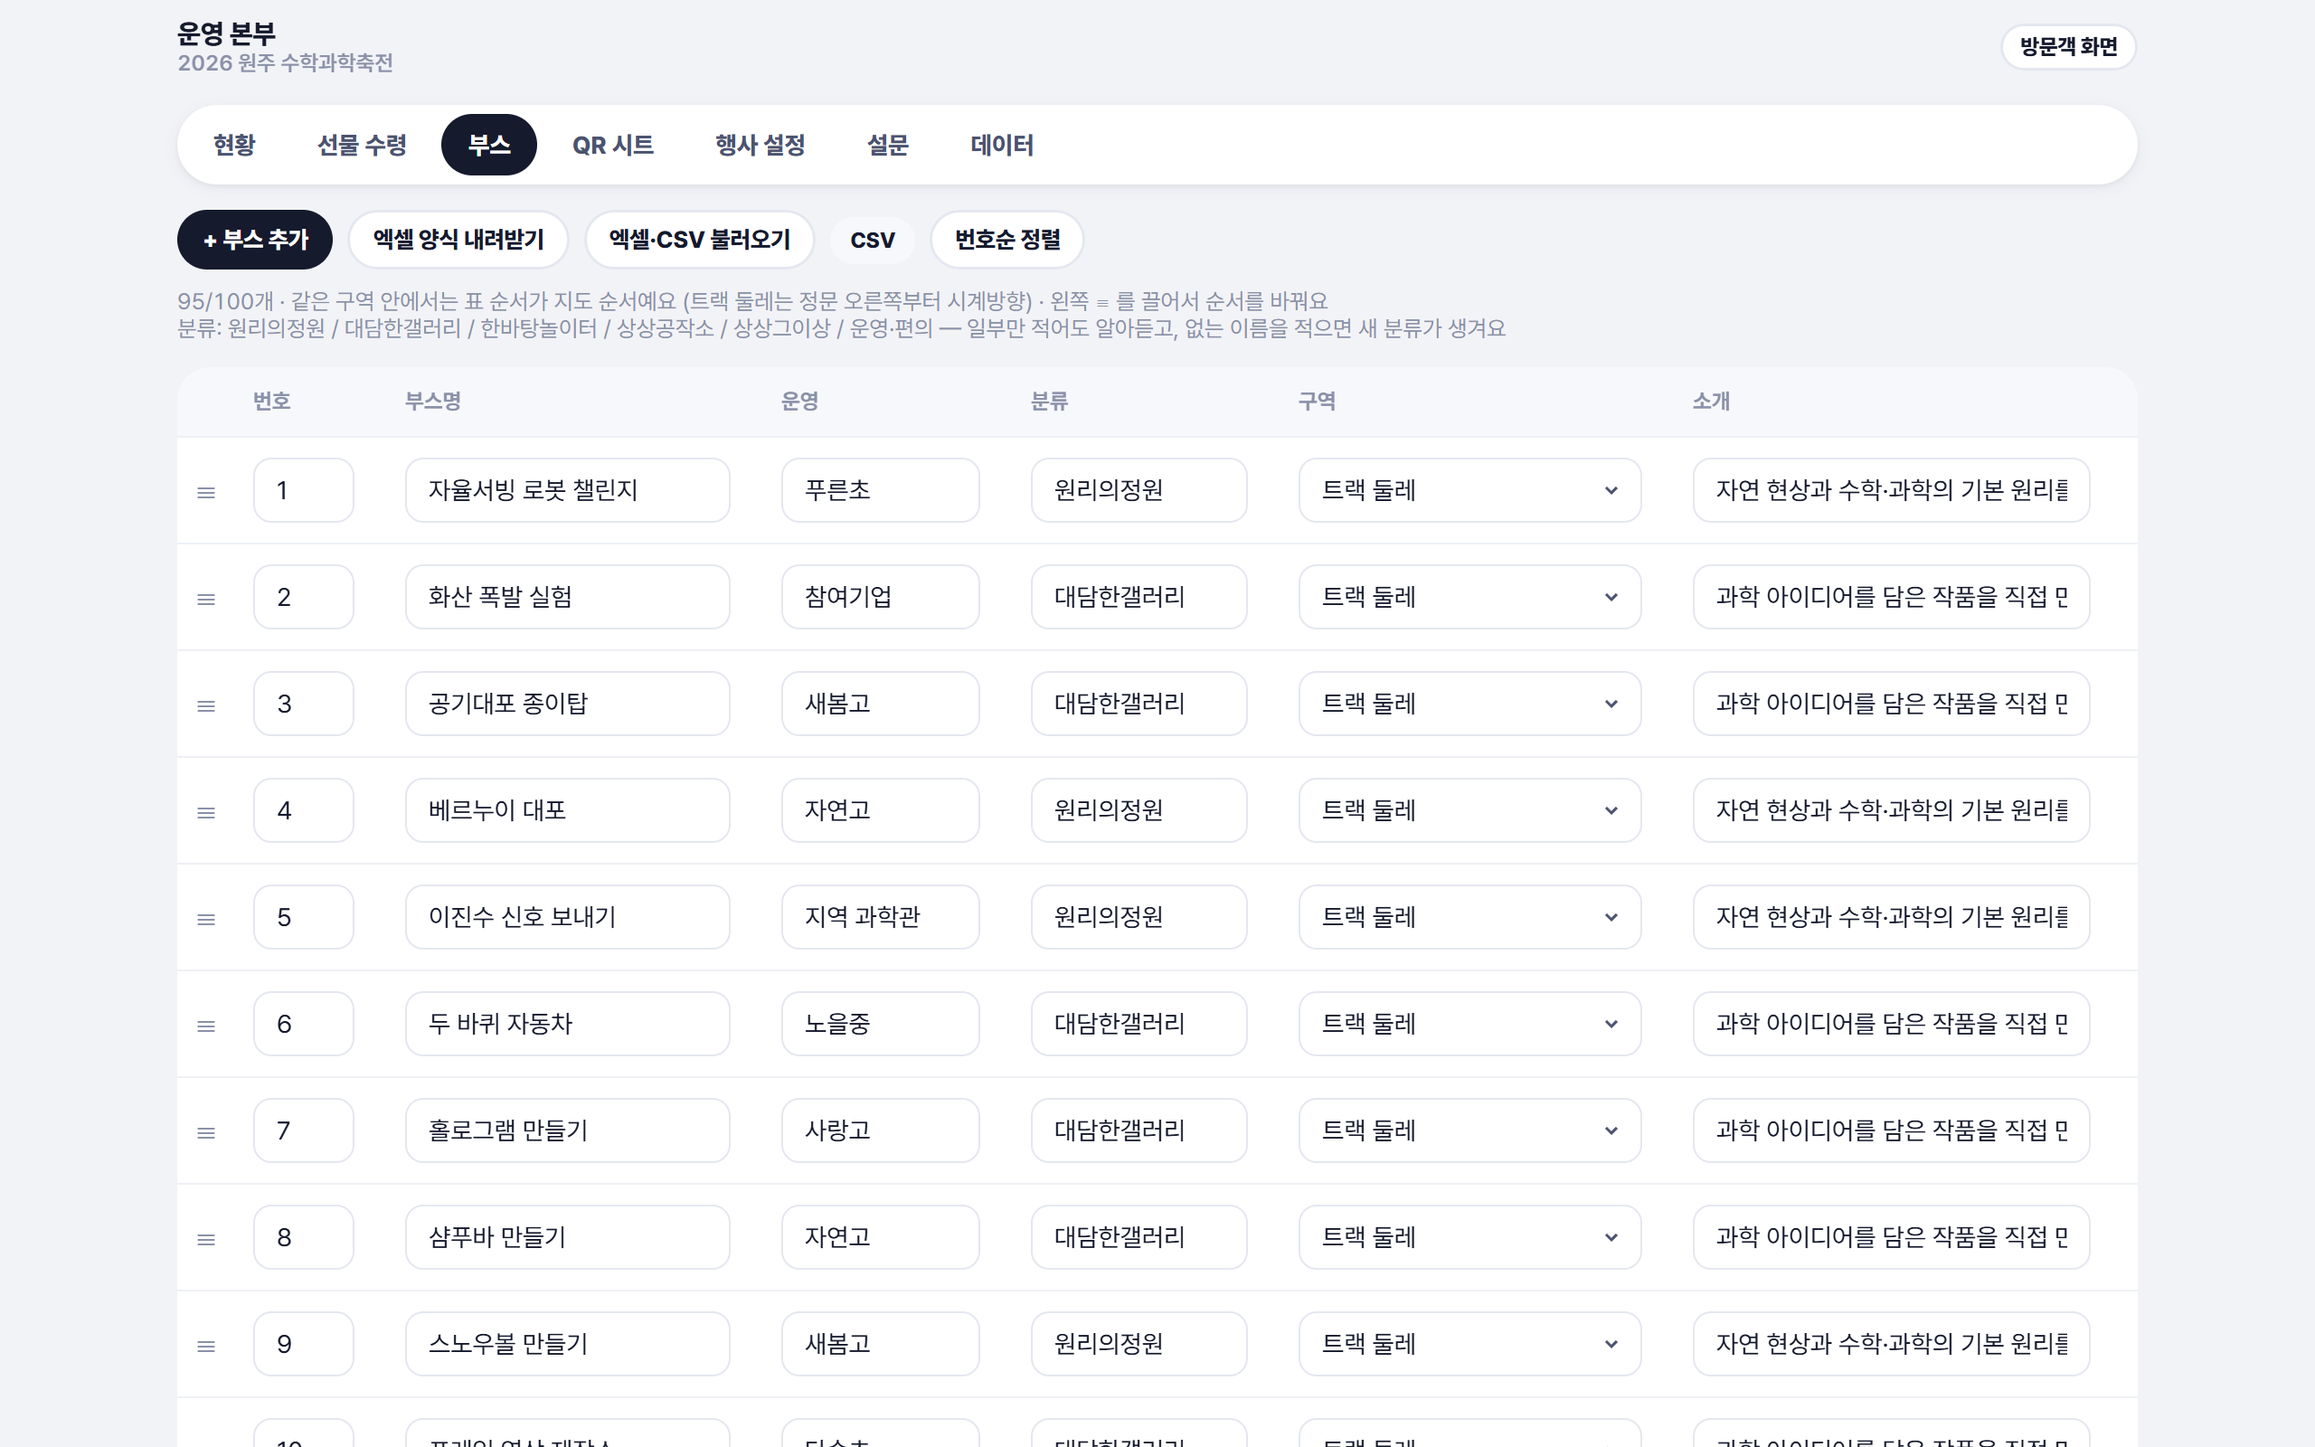
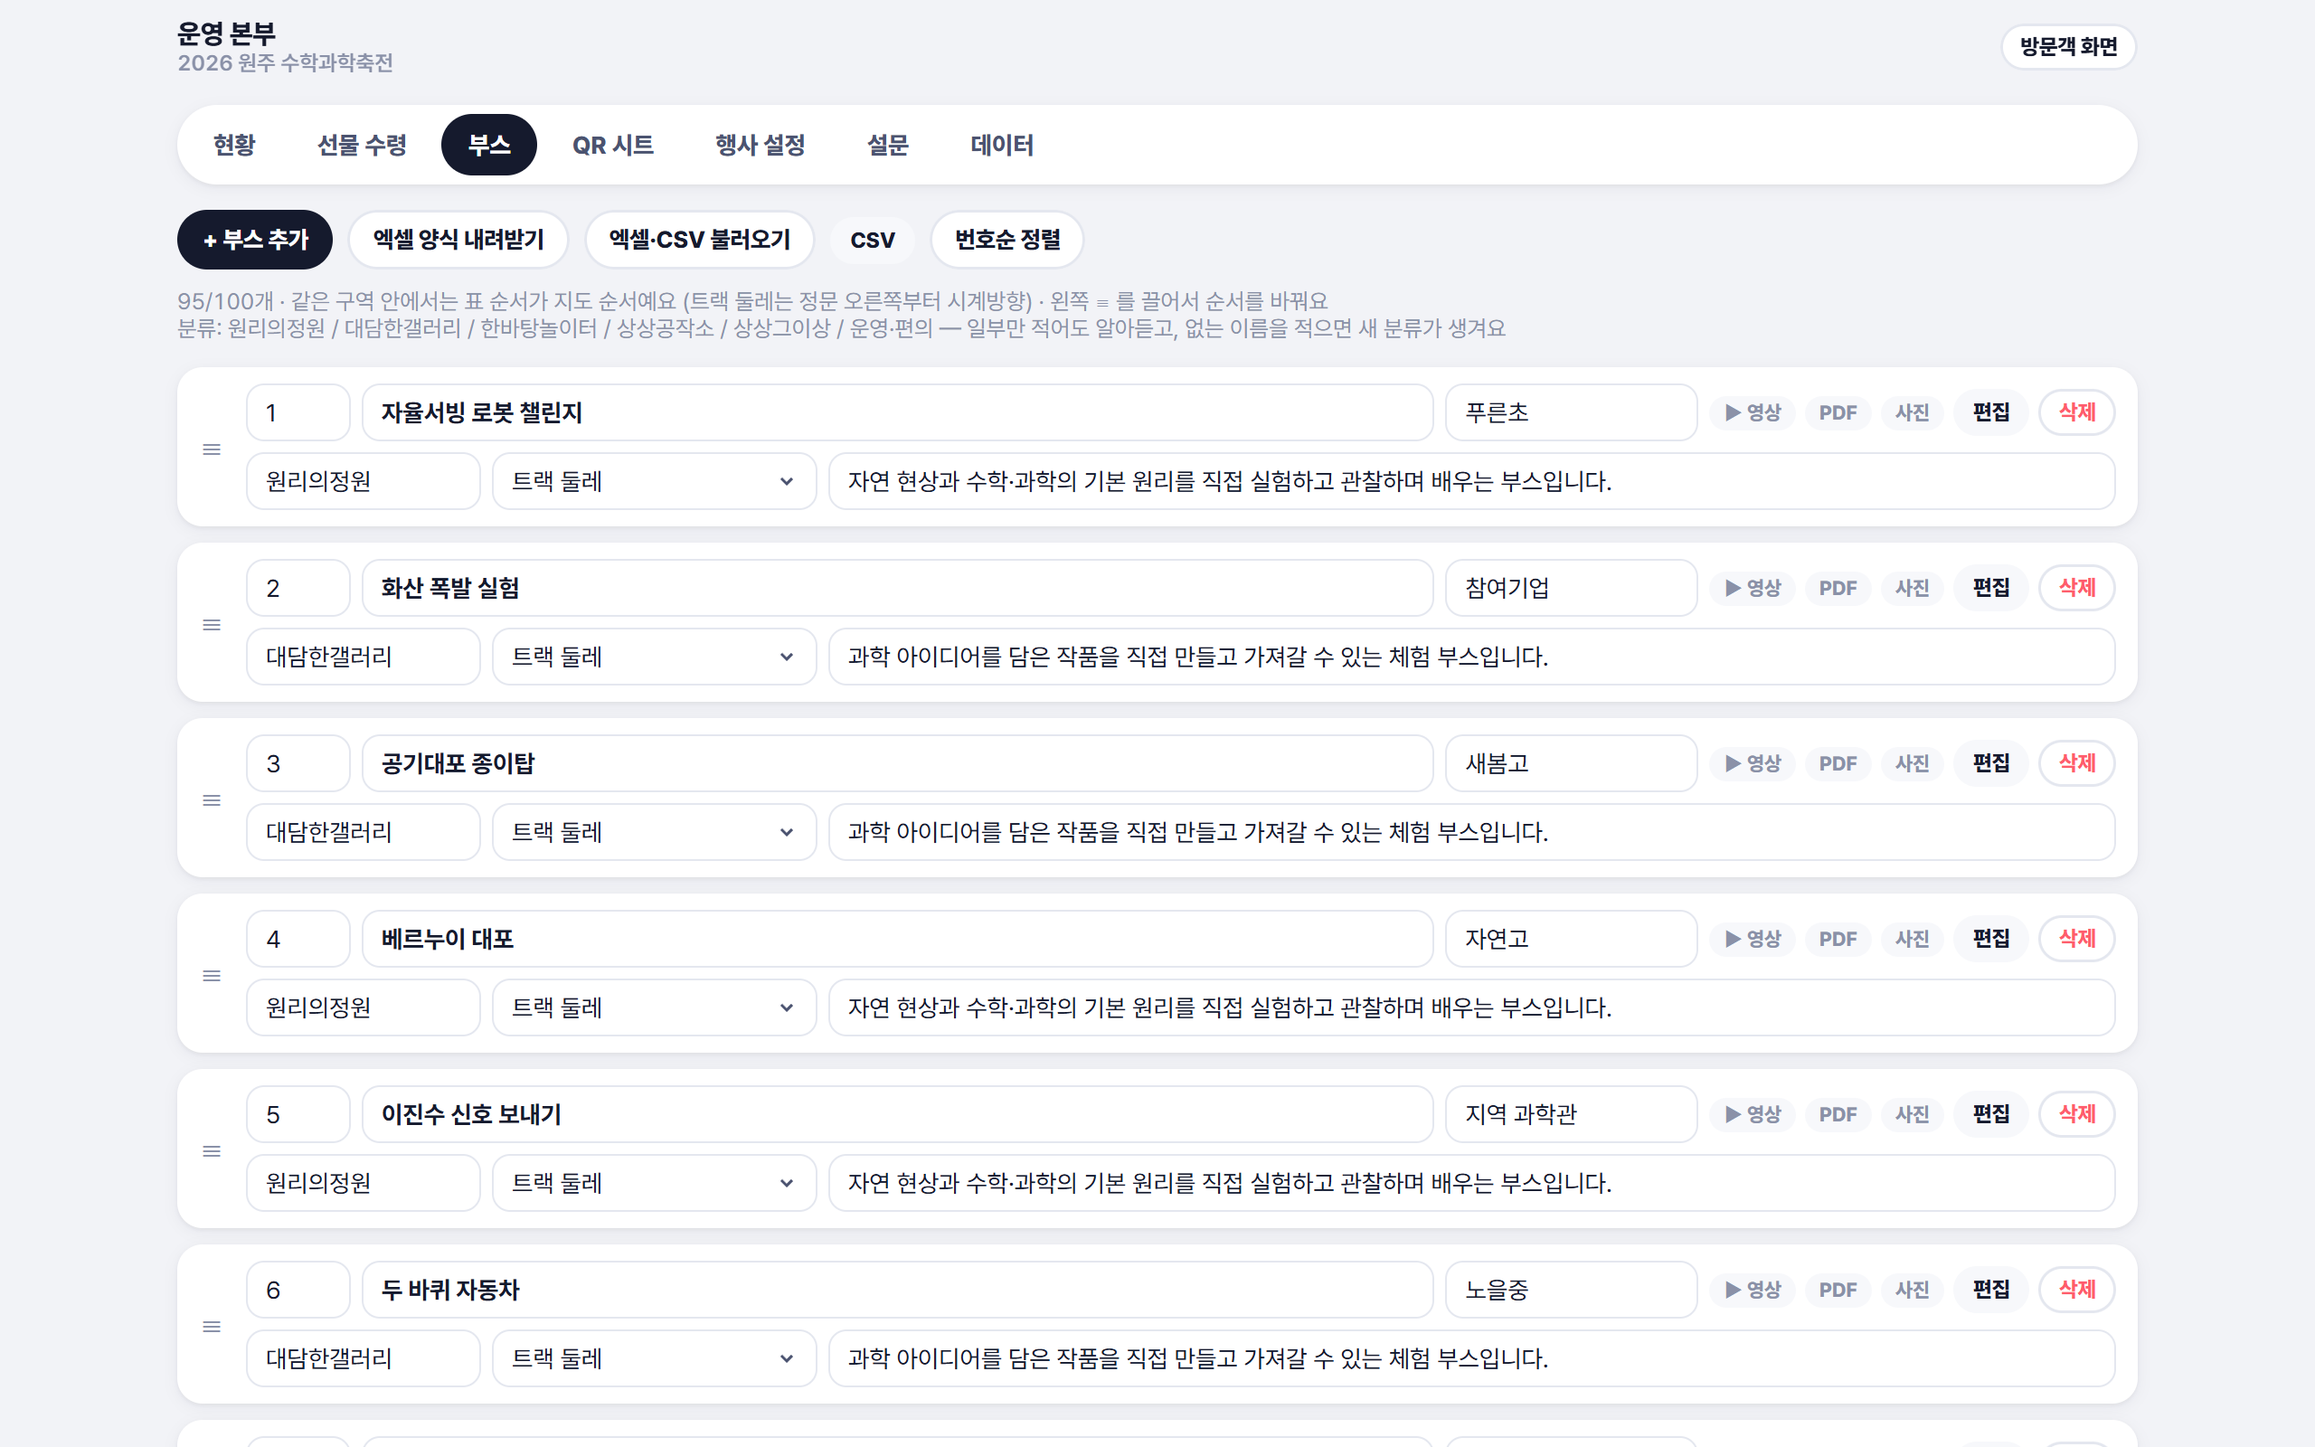
관리자 부스: 표 → 카드 목록(한 줄 2단), 가로 스크롤 제거
- 1줄 번호·부스명·운영기관 + 자료 칩·편집·삭제, 2줄 분류·구역·소개
- 폰에서는 칸이 세로로 접힘(분류·구역 반반)
- 끌기·번호순 정렬·편집 시트·저장·엑셀은 그대로, 테스트 갱신

diff --git a/원주축전_스탬프앱_3.html b/원주축전_스탬프앱_3.html
@@ -90,9 +90,16 @@ select.inp.sm{padding-right:30px;background-position:right 10px center}
 .pill .dot{width:7px;height:7px;border-radius:50%;background:currentColor}
 .mchip{display:inline-flex;align-items:center;padding:3px 8px;border-radius:999px;font-size:11px;font-weight:800;background:var(--card-2);color:var(--ink-3);white-space:nowrap}   /* 관리자 › 부스 표 자료 칸 (영상·PDF·사진 있음/없음) */
 .mchip.on{background:var(--blue-soft);color:var(--blue)}
-.table td.drag{cursor:grab;color:var(--ink-3);font-size:20px;line-height:1;text-align:center;user-select:none;-webkit-user-select:none;touch-action:none;padding:0 4px 0 8px;width:22px}   /* 관리자 › 부스 표 끌기 손잡이 */
-.table tr.dragging{opacity:.55;background:var(--blue-soft)}
-.table tr.dragging td{background:transparent}
+.blist{display:flex;flex-direction:column;gap:8px}   /* 관리자 › 부스 목록: 부스 하나 = 카드 한 줄(2단). 옆으로 안 넘기고 폭에 맞춰 접힘 */
+.brow{display:grid;grid-template-columns:22px 1fr;gap:6px 8px;align-items:center;background:var(--card);border-radius:14px;padding:9px 12px 9px 8px;box-shadow:var(--sh-1)}
+.brow .drag{grid-row:1/3;cursor:grab;color:var(--ink-3);font-size:20px;line-height:1;text-align:center;user-select:none;-webkit-user-select:none;touch-action:none}
+.brow .l1,.brow .l2{display:flex;gap:6px;align-items:center;flex-wrap:wrap;min-width:0}
+.brow .inp.sm{padding:7px 10px;font-size:13.5px}
+.brow .f-n{flex:0 0 58px} .brow .f-name{flex:1 1 170px;font-weight:700} .brow .f-org{flex:0 1 140px}
+.brow .f-cat{flex:0 1 130px} .brow .f-zone{flex:0 1 180px} .brow .f-desc{flex:1 1 220px}
+.brow .acts{display:flex;gap:5px;align-items:center;margin-left:auto;flex-wrap:nowrap}
+.brow.dragging{opacity:.55;background:var(--blue-soft)}
+@media(max-width:600px){.brow .f-org,.brow .f-cat,.brow .f-zone{flex:1 1 40%}.brow .acts{margin-left:0;width:100%;justify-content:flex-end}}   /* 폰: 운영기관은 한 줄, 분류·구역은 반반 */
 .muted{color:var(--ink-3)}
 .small{font-size:12.5px}
 .row{display:flex;align-items:center;gap:10px}
@@ -1932,7 +1939,7 @@ function admGift(st){
   };
   $('#fGo').onclick = find; $('#fq').onkeydown = e => { if(e.key === 'Enter') find(); };
 }
-/* 부스 편집 표. 셀 편집 → [변경사항 저장] 때 collect() 로 모아 DB.saveBooths. CSV 내려받기/불러오기(9열). 영상·PDF·사진은 [편집] 시트(openMediaSheet)에서, 파일 업로드는 uploadFile */
+/* 부스 편집 목록(카드 한 줄 = 부스 하나, .brow[data-i]). 칸 편집 → [변경사항 저장] 때 collect() 로 모아 DB.saveBooths. CSV 내려받기/불러오기(9열). 영상·PDF·사진은 [편집] 시트(openMediaSheet)에서, 파일 업로드는 uploadFile */
 function admBooths(){
   admShell('booths', `
     <div class="row" style="flex-wrap:wrap;gap:8px">
@@ -1943,24 +1950,26 @@ function admBooths(){
       <button class="btn sm line" id="bSort" title="표 순서를 부스 번호 순으로">번호순 정렬</button>
       <span class="small muted">${S.booths.length}/${CONFIG.boothMax}개 · 같은 구역 안에서는 표 순서가 지도 순서예요 (트랙 둘레는 정문 오른쪽부터 시계방향) · 왼쪽 ≡ 를 끌어서 순서를 바꿔요<br>분류: ${CATS.map(c => c.name).join(' / ')} — 일부만 적어도 알아듣고, 없는 이름을 적으면 새 분류가 생겨요</span>
     </div>
-    <div class="tscroll"><table class="table"><thead><tr><th></th><th>번호</th><th>부스명</th><th>운영</th><th>분류</th><th>구역</th><th>소개</th><th>자료</th><th></th></tr></thead><tbody>
-      ${S.booths.map((b, i) => `<tr data-i="${i}">
-        <td class="drag" data-drag="${i}" title="끌어서 순서 바꾸기">≡</td>
-        <td><input class="inp sm" value="${esc(b.n)}" data-f="n" style="width:56px"></td>
-        <td><input class="inp sm" value="${esc(b.name)}" data-f="name" style="min-width:180px"></td>
-        <td><input class="inp sm" value="${esc(b.org)}" data-f="org" style="min-width:110px"></td>
-        <td><input class="inp sm" value="${esc(catOf(b.cat).name)}" data-f="cat" style="width:120px" title="없는 이름을 적으면 새 분류가 생겨요"></td>
-        <td><select class="inp sm" data-f="zone" style="width:190px">${ZONES.map(z => `<option value="${z.id}" ${z.id === (b.zone || '') ? 'selected' : ''}>${z.name}</option>`).join('')}</select></td>
-        <td><input class="inp sm" value="${esc(b.desc || '')}" data-f="desc" style="min-width:220px"></td>
-        <td><div class="row" style="gap:5px;flex-wrap:nowrap;align-items:center">
-          <input type="hidden" data-f="video" value="${esc(b.video || '')}"><input type="hidden" data-f="pdf" value="${esc(b.pdf || '')}"><input type="hidden" data-f="img" value="${esc(b.img || '')}">
-          <span class="mchip ${b.video ? 'on' : ''}" data-m="video">▶ 영상</span><span class="mchip ${b.pdf ? 'on' : ''}" data-m="pdf">PDF</span><span class="mchip ${b.img ? 'on' : ''}" data-m="img">사진</span>
-          <button class="btn xs soft" data-media="${i}" style="white-space:nowrap">편집</button></div></td>
-        <td><button class="btn xs line" data-del="${i}" style="color:var(--coral);white-space:nowrap">삭제</button></td></tr>`).join('')}
-    </tbody></table></div>
+    <div class="blist" id="bList">
+      ${S.booths.map((b, i) => `<div class="brow" data-i="${i}">
+        <div class="drag" data-drag="${i}" title="끌어서 순서 바꾸기">≡</div>
+        <div class="l1">
+          <input class="inp sm f-n" value="${esc(b.n)}" data-f="n" placeholder="번호" title="부스 번호">
+          <input class="inp sm f-name" value="${esc(b.name)}" data-f="name" placeholder="부스명">
+          <input class="inp sm f-org" value="${esc(b.org)}" data-f="org" placeholder="운영기관">
+          <div class="acts">
+            <input type="hidden" data-f="video" value="${esc(b.video || '')}"><input type="hidden" data-f="pdf" value="${esc(b.pdf || '')}"><input type="hidden" data-f="img" value="${esc(b.img || '')}">
+            <span class="mchip ${b.video ? 'on' : ''}" data-m="video">▶ 영상</span><span class="mchip ${b.pdf ? 'on' : ''}" data-m="pdf">PDF</span><span class="mchip ${b.img ? 'on' : ''}" data-m="img">사진</span>
+            <button class="btn xs soft" data-media="${i}" style="white-space:nowrap">편집</button>
+            <button class="btn xs line" data-del="${i}" style="color:var(--coral);white-space:nowrap">삭제</button></div></div>
+        <div class="l2">
+          <input class="inp sm f-cat" value="${esc(catOf(b.cat).name)}" data-f="cat" placeholder="분류" title="없는 이름을 적으면 새 분류가 생겨요">
+          <select class="inp sm f-zone" data-f="zone" title="구역">${ZONES.map(z => `<option value="${z.id}" ${z.id === (b.zone || '') ? 'selected' : ''}>${z.name}</option>`).join('')}</select>
+          <input class="inp sm f-desc" value="${esc(b.desc || '')}" data-f="desc" placeholder="소개 (방문객 부스 소개 화면에 나와요)"></div></div>`).join('')}
+    </div>
     <div class="row no-print"><button class="btn blue" id="bSave">변경사항 저장</button><span class="small muted">저장 전엔 지도에 반영되지 않아요</span></div>`);
   /* 분류는 글자 입력. 있는 이름(일부만 써도 됨)이면 그걸로, 없는 이름이면 새 분류가 생김. 구역은 드롭다운 */
-  const collect = () => S.booths.map((b, i) => { const tr = $(`tr[data-i="${i}"]`); const o = { ...b }; $$('[data-f]', tr).forEach(el => { const v = el.value.trim(); o[el.dataset.f] = el.dataset.f === 'cat' ? matchCategory(v, b.cat, true) : v; }); return o; });
+  const collect = () => S.booths.map((b, i) => { const tr = $(`.brow[data-i="${i}"]`); const o = { ...b }; $$('[data-f]', tr).forEach(el => { const v = el.value.trim(); o[el.dataset.f] = el.dataset.f === 'cat' ? matchCategory(v, b.cat, true) : v; }); return o; });
   /* 부스 저장 뒤 사용자 정의 분류를 settings 에 같이 저장. 아무 부스도 안 쓰는 사용자 정의 분류는 정리 */
   const saveCategories = async list => {
     const used = new Set(list.map(b => b.cat));
@@ -1970,28 +1979,28 @@ function admBooths(){
     if(prev !== JSON.stringify(cats)){ const data = { ...(S.settingsRaw || {}), categories: cats }; await DB.saveSettings(data); S.settingsRaw = data; }
   };
   $('#bSave').onclick = async () => { const list = collect(); const seen = new Set(); for(const b of list){ if(!b.n || !b.name) return toast('번호와 이름은 비울 수 없어요'); if(seen.has(b.n)) return toast(`부스 번호 ${b.n}이(가) 중복돼요`); seen.add(b.n); } S.booths = list; await DB.saveBooths(list); await saveCategories(list); toast('저장했어요'); renderAdmin('booths'); };
-  $('#bAdd').onclick = () => { const list = collect(); if(list.length >= CONFIG.boothMax) return toast(`부스는 최대 ${CONFIG.boothMax}개까지예요`); const n = String(Math.max(0, ...list.map(b => parseInt(b.n) || 0)) + 1).padStart(2, '0'); list.push({ id: 'b' + n + '-' + Date.now().toString(36), n, name: '', cat: 'etc', org: '', zone: '', desc: '', video: '', pdf: '', img: '' }); S.booths = list; renderAdmin('booths'); setTimeout(() => $$('tr[data-i]').pop()?.querySelector('[data-f=name]').focus(), 50); };
+  $('#bAdd').onclick = () => { const list = collect(); if(list.length >= CONFIG.boothMax) return toast(`부스는 최대 ${CONFIG.boothMax}개까지예요`); const n = String(Math.max(0, ...list.map(b => parseInt(b.n) || 0)) + 1).padStart(2, '0'); list.push({ id: 'b' + n + '-' + Date.now().toString(36), n, name: '', cat: 'etc', org: '', zone: '', desc: '', video: '', pdf: '', img: '' }); S.booths = list; renderAdmin('booths'); setTimeout(() => $$('#bList .brow').pop()?.querySelector('[data-f=name]').focus(), 50); };
   $$('[data-del]').forEach(b => b.onclick = () => { const list = collect(); if(!confirm(`${list[b.dataset.del].n} 부스를 삭제할까요? 저장을 눌러야 반영돼요.`)) return; list.splice(b.dataset.del, 1); S.booths = list; renderAdmin('booths'); });
   /* 순서: 왼쪽 ≡ 를 끌어서(pointer 이벤트, 마우스·터치 공통) 행을 옮기고, 놓으면 표의 행 순서대로 S.booths 를 다시 만듦. [번호순 정렬]은 번호(숫자 먼저, 본1·네1 같은 글자 번호는 뒤) 순 */
-  const reorderFromDom = () => { const list = collect(); S.booths = $$('tbody tr[data-i]').map(tr => list[+tr.dataset.i]); renderAdmin('booths'); };
+  const reorderFromDom = () => { const list = collect(); S.booths = $$('#bList .brow').map(tr => list[+tr.dataset.i]); renderAdmin('booths'); };
   /* 리스너는 document 에 — 행을 옮기면(insertBefore) 손잡이가 잠깐 DOM 에서 빠져 포인터 캡처가 풀리므로 캡처에 기대지 않음 */
   $$('[data-drag]').forEach(h => h.onpointerdown = e => {
-    e.preventDefault(); const tr = h.closest('tr'), tb = tr.parentNode, from = $$('tbody tr[data-i]').indexOf(tr); tr.classList.add('dragging');
+    e.preventDefault(); const tr = h.closest('.brow'), tb = tr.parentNode, from = $$('#bList .brow').indexOf(tr); tr.classList.add('dragging');
     const onMove = ev => {
       const y = ev.clientY; if(y < 70) window.scrollBy(0, -12); else if(y > innerHeight - 70) window.scrollBy(0, 12);   // 화면 끝에 닿으면 스크롤
-      const over = document.elementFromPoint(ev.clientX, y)?.closest('tbody tr[data-i]'); if(!over || over === tr || over.parentNode !== tb) return;
+      const over = document.elementFromPoint(ev.clientX, y)?.closest('#bList .brow'); if(!over || over === tr || over.parentNode !== tb) return;
       const r = over.getBoundingClientRect(), ref = y < r.top + r.height / 2 ? over : over.nextSibling;
       if(ref !== tr && ref !== tr.nextSibling) tb.insertBefore(tr, ref);   // 이미 그 자리면 건드리지 않음
     };
     const onUp = ev => { onMove(ev); document.removeEventListener('pointermove', onMove); document.removeEventListener('pointerup', onUp); document.removeEventListener('pointercancel', onUp); tr.classList.remove('dragging');
-      if($$('tbody tr[data-i]').indexOf(tr) === from) return; reorderFromDom(); toast('순서를 바꿨어요 · 저장을 눌러야 반영돼요'); };
+      if($$('#bList .brow').indexOf(tr) === from) return; reorderFromDom(); toast('순서를 바꿨어요 · 저장을 눌러야 반영돼요'); };
     document.addEventListener('pointermove', onMove); document.addEventListener('pointerup', onUp); document.addEventListener('pointercancel', onUp);
   });
   const nKey = n => { const m = String(n || '').trim().match(/^(\D*)(\d+)(.*)$/); return m ? [m[1] ? 1 : 0, m[1], +m[2], m[3]] : [2, String(n || ''), 0, '']; };
   $('#bSort').onclick = () => { const list = collect(); list.sort((a, b) => { const x = nKey(a.n), y = nKey(b.n); for(let k = 0; k < 4; k++){ if(x[k] < y[k]) return -1; if(x[k] > y[k]) return 1; } return 0; }); S.booths = list; renderAdmin('booths'); toast('번호순으로 정렬했어요 · 저장을 눌러야 반영돼요'); };
   /* 자료(영상·PDF·사진) 편집 시트. 행의 hidden input(data-f=video/pdf/img)을 읽고 [확인] 때 다시 써넣음 → 저장은 표 아래 [변경사항 저장] 한 번 */
   const openMediaSheet = i => {
-    const tr = $(`tr[data-i="${i}"]`), b = S.booths[i];
+    const tr = $(`.brow[data-i="${i}"]`), b = S.booths[i];
     const get = k => $(`[data-f=${k}]`, tr).value.trim();
     const IDS = { video: '#mVideo', pdf: '#mPdf', img: '#mImg' };
     const fname = u => { u = String(u || ''); if(u.startsWith('local:')) return '올린 파일'; try{ return decodeURIComponent(u.split('?')[0].split('/').pop()) || u; }catch(e){ return u; } };
